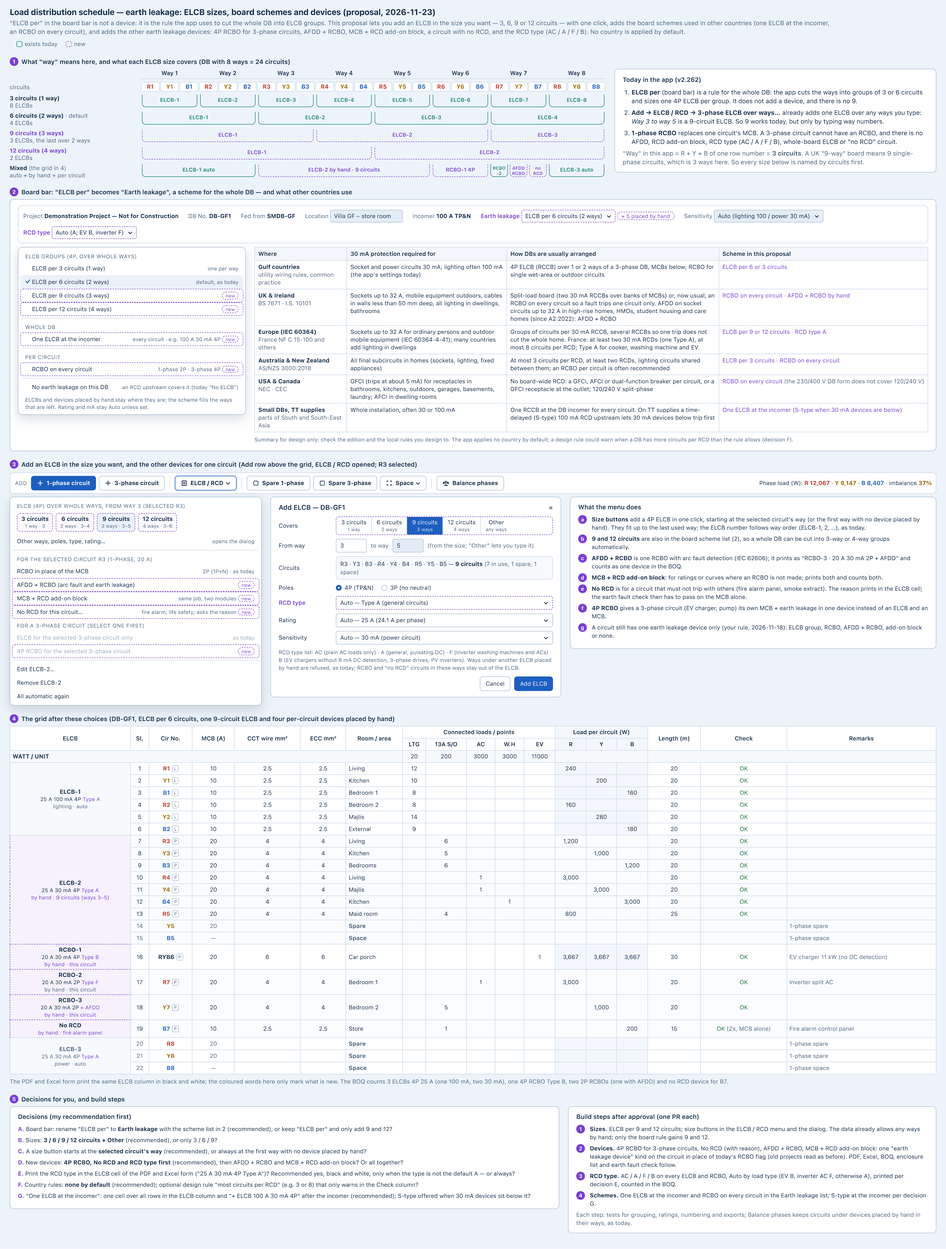
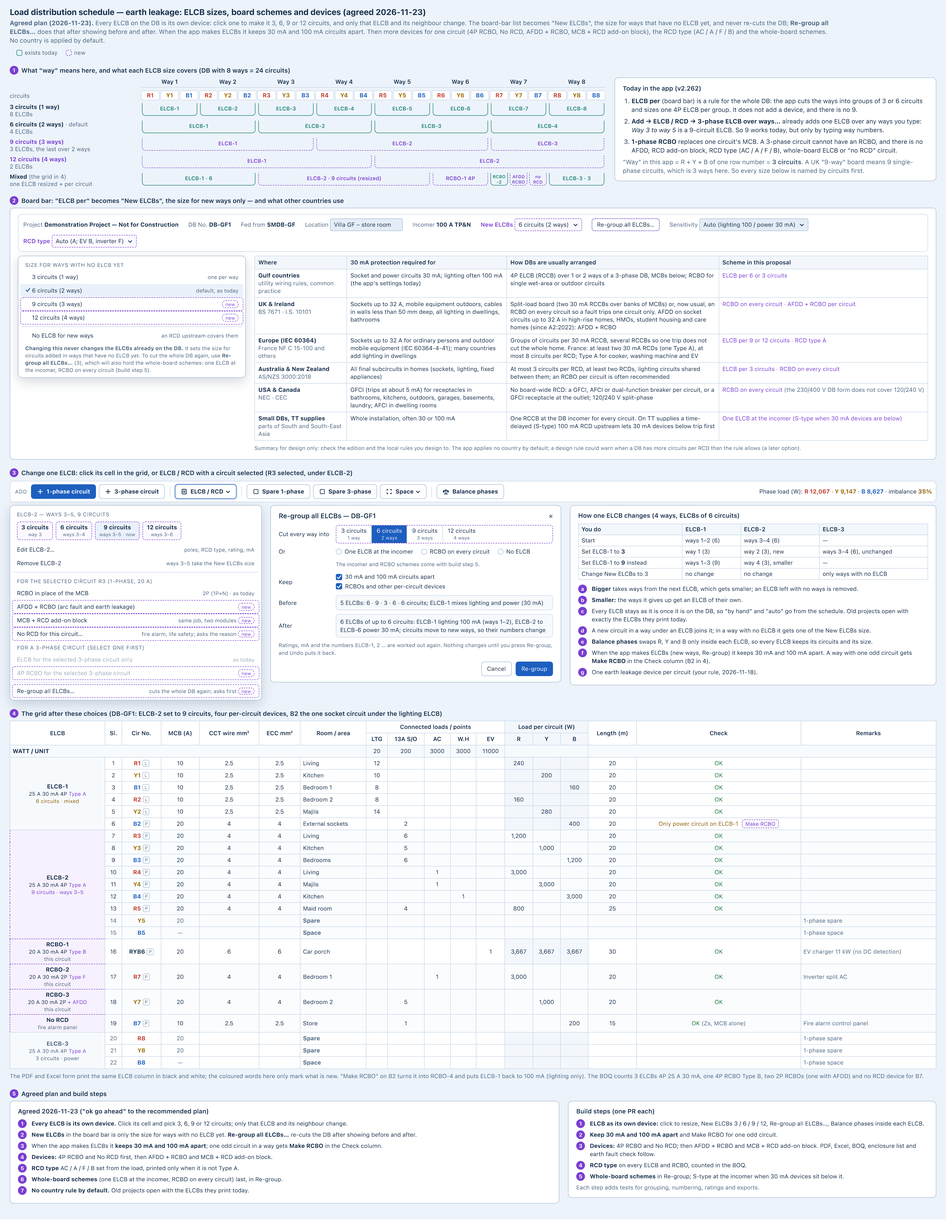
docs: earth leakage proposal — agreed plan (every ELCB its own device)
Rework the mockup and note to the plan agreed on 2026-11-23: click an
ELCB to resize it (3/6/9/12 circuits), the board-bar list becomes New
ELCBs for ways with no ELCB, Re-group all ELCBs re-cuts after a preview,
30 mA and 100 mA kept apart with Make RCBO for an odd circuit.

Changed region(s): [[0.0, 0.0, 1.0, 0.9972], [0.8125, 0.0, 0.875, 0.0312], [0.0625, 0.6233, 0.0938, 0.6544]]

diff --git a/docs/mockups/load-schedule-earth-leakage-mockup.html b/docs/mockups/load-schedule-earth-leakage-mockup.html
@@ -119,6 +119,13 @@ table.ct{border-collapse:collapse;font-size:12px;line-height:16px;background:var
 table.ct th,table.ct td{border:1px solid var(--line);padding:5px 7px;text-align:left;vertical-align:top}
 table.ct th{background:#F3F7FC;font-weight:600}
 table.ct td.sc{color:var(--new);white-space:nowrap}
+table.ex{border-collapse:collapse;font-size:12px;line-height:16px;margin:0 0 10px;width:100%}
+table.ex th,table.ex td{border:1px solid var(--line);padding:3px 6px;text-align:left}
+table.ex th{background:#F3F7FC;font-weight:600}
+.chk{display:inline-flex;align-items:center;gap:6px;margin-right:14px}
+.chk i{display:inline-flex;align-items:center;justify-content:center;width:13px;height:13px;border-radius:3px;background:var(--acc);color:#fff}
+.chk i svg{width:9px;height:9px;stroke-width:2.4}
+.mini{display:inline-flex;border:1.5px dashed var(--new);border-radius:5px;padding:0 6px;font-size:11px;line-height:16px;color:var(--new);background:#FBF9FE;margin-left:4px}
 
 .notes{font-size:12px;line-height:17px}
 .notes ol{margin:0;padding-left:0;list-style:none}
@@ -129,8 +136,8 @@ table.ct td.sc{color:var(--new);white-space:nowrap}
 </style>
 </head>
 <body>
-<h1>Load distribution schedule — earth leakage: ELCB sizes, board schemes and devices (proposal, 2026-11-23)</h1>
-<p class="lead">"ELCB per" in the board bar is not a device: it is the rule the app uses to cut the whole DB into ELCB groups. This proposal lets you add an ELCB in the size you want — 3, 6, 9 or 12 circuits — with one click, adds the board schemes used in other countries (one ELCB at the incomer, an RCBO on every circuit), and adds the other earth leakage devices: 4P RCBO for 3-phase circuits, AFDD + RCBO, MCB + RCD add-on block, a circuit with no RCD, and the RCD type (AC / A / F / B). No country is applied by default.</p>
+<h1>Load distribution schedule — earth leakage: ELCB sizes, board schemes and devices (agreed 2026-11-23)</h1>
+<p class="lead"><b>Agreed plan (2026-11-23).</b> Every ELCB on the DB is its own device: click one to make it 3, 6, 9 or 12 circuits, and only that ELCB and its neighbour change. The board-bar list becomes "New ELCBs", the size for ways that have no ELCB yet, and never re-cuts the DB; <b>Re-group all ELCBs…</b> does that after showing before and after. When the app makes ELCBs it keeps 30 mA and 100 mA circuits apart. Then more devices for one circuit (4P RCBO, No RCD, AFDD + RCBO, MCB + RCD add-on block), the RCD type (AC / A / F / B) and the whole-board schemes. No country is applied by default.</p>
 <p class="legend"><i class="td"></i>exists today <i class="nw"></i>new</p>
 
 <h2><span class="n">1</span>What "way" means here, and what each ELCB size covers (DB with 8 ways = 24 circuits)</h2>
@@ -153,8 +160,8 @@ table.ct td.sc{color:var(--new);white-space:nowrap}
     <div class="rl"><b class="nwt">12 circuits (4 ways)</b><br><span class="m">2 ELCBs</span></div>
     <div class="br nw" style="grid-column:2 / span 12">ELCB-1</div><div class="br nw" style="grid-column:14 / span 12">ELCB-2</div>
 
-    <div class="rl"><b>Mixed</b> <span class="m">(the grid in 4)</span><br><span class="m">auto + by hand + per circuit</span></div>
-    <div class="br" style="grid-column:2 / span 6">ELCB-1 auto</div><div class="br nw" style="grid-column:8 / span 9">ELCB-2 by hand · 9 circuits</div><div class="br nw" style="grid-column:17 / span 3">RCBO-1 4P</div><div class="br rc" style="grid-column:20 / span 1">RCBO<br>-2</div><div class="br rc nw" style="grid-column:21 / span 1">AFDD<br>RCBO</div><div class="br rc nw" style="grid-column:22 / span 1">no<br>RCD</div><div class="br" style="grid-column:23 / span 3">ELCB-3 auto</div>
+    <div class="rl"><b>Mixed</b> <span class="m">(the grid in 4)</span><br><span class="m">one ELCB resized + per circuit</span></div>
+    <div class="br" style="grid-column:2 / span 6">ELCB-1 · 6</div><div class="br nw" style="grid-column:8 / span 9">ELCB-2 · 9 circuits (resized)</div><div class="br nw" style="grid-column:17 / span 3">RCBO-1 4P</div><div class="br rc" style="grid-column:20 / span 1">RCBO<br>-2</div><div class="br rc nw" style="grid-column:21 / span 1">AFDD<br>RCBO</div><div class="br rc nw" style="grid-column:22 / span 1">no<br>RCD</div><div class="br" style="grid-column:23 / span 3">ELCB-3 · 3</div>
   </div>
   <div class="card" style="flex:1">
     <div class="t">Today in the app (v2.262)</div>
@@ -167,7 +174,7 @@ table.ct td.sc{color:var(--new);white-space:nowrap}
   </div>
 </div>
 
-<h2><span class="n">2</span>Board bar: "ELCB per" becomes "Earth leakage", a scheme for the whole DB — and what other countries use</h2>
+<h2><span class="n">2</span>Board bar: "ELCB per" becomes "New ELCBs", the size for new ways only — and what other countries use</h2>
 <div class="frame">
   <div class="lshead">
     <span><span class="m">Project</span> <b>Demonstration Project — Not for Construction</b></span>
@@ -175,45 +182,40 @@ table.ct td.sc{color:var(--new);white-space:nowrap}
     <span><span class="m">Fed from</span> <b>SMDB-GF</b></span>
     <span><span class="m">Location</span> <span class="in" style="width:150px">Villa GF – store room</span></span>
     <span><span class="m">Incomer</span> <b>100 A TP&amp;N</b></span>
-    <span><span class="lbl-nw">Earth leakage</span> <span class="in nw">ELCB per 6 circuits (2 ways) <svg viewBox="0 0 12 12"><path d="M2.5 4.5 6 8l3.5-3.5"/></svg></span> <span class="tag">+ 5 placed by hand</span></span>
+    <span><span class="lbl-nw">New ELCBs</span> <span class="in nw">6 circuits (2 ways) <svg viewBox="0 0 12 12"><path d="M2.5 4.5 6 8l3.5-3.5"/></svg></span></span>
+    <span class="chip nwd" style="padding:3px 10px">Re-group all ELCBs…</span>
     <span><span class="m">Sensitivity</span> <span class="in">Auto (lighting 100 / power 30 mA) <svg viewBox="0 0 12 12"><path d="M2.5 4.5 6 8l3.5-3.5"/></svg></span></span>
     <span><span class="lbl-nw">RCD type</span> <span class="in nw">Auto (A; EV B, inverter F) <svg viewBox="0 0 12 12"><path d="M2.5 4.5 6 8l3.5-3.5"/></svg></span></span>
   </div>
   <div class="row" style="margin-top:8px">
     <div class="menu" style="width:470px;flex:none" id="scheme">
-      <span class="hd">ELCB groups (4P, over whole ways)</span>
-      <div class="it"><span><span class="ck"></span>ELCB per 3 circuits (1 way)</span><span class="m">one per way</span></div>
-      <div class="it hi"><span><span class="ck"><svg viewBox="0 0 12 12" style="width:11px;height:11px;stroke-width:2"><path d="M2 6.5 5 9.5 10 3"/></svg></span>ELCB per 6 circuits (2 ways)</span><span class="m">default, as today</span></div>
-      <div class="it nwd"><span><span class="ck"></span>ELCB per 9 circuits (3 ways)</span><span class="newpill">new</span></div>
-      <div class="it nwd"><span><span class="ck"></span>ELCB per 12 circuits (4 ways)</span><span class="newpill">new</span></div>
+      <span class="hd">Size for ways with no ELCB yet</span>
+      <div class="it"><span><span class="ck"></span>3 circuits (1 way)</span><span class="m">one per way</span></div>
+      <div class="it hi"><span><span class="ck"><svg viewBox="0 0 12 12" style="width:11px;height:11px;stroke-width:2"><path d="M2 6.5 5 9.5 10 3"/></svg></span>6 circuits (2 ways)</span><span class="m">default, as today</span></div>
+      <div class="it nwd"><span><span class="ck"></span>9 circuits (3 ways)</span><span class="newpill">new</span></div>
+      <div class="it nwd"><span><span class="ck"></span>12 circuits (4 ways)</span><span class="newpill">new</span></div>
       <hr>
-      <span class="hd">Whole DB</span>
-      <div class="it nwd"><span><span class="ck"></span>One ELCB at the incomer</span><span class="m">every circuit · e.g. 100 A 30 mA 4P <span class="newpill">new</span></span></div>
-      <hr>
-      <span class="hd">Per circuit</span>
-      <div class="it nwd"><span><span class="ck"></span>RCBO on every circuit</span><span class="m">1-phase 2P · 3-phase 4P <span class="newpill">new</span></span></div>
-      <hr>
-      <div class="it"><span><span class="ck"></span>No earth leakage on this DB</span><span class="m">an RCD upstream covers it (today "No ELCB")</span></div>
-      <div class="foot">ELCBs and devices placed by hand stay where they are; the scheme fills the ways that are left. Rating and mA stay Auto unless set.</div>
+      <div class="it"><span><span class="ck"></span>No ELCB for new ways</span><span class="m">an RCD upstream covers them</span></div>
+      <div class="foot"><b>Changing this never changes the ELCBs already on the DB.</b> It sets the size for circuits added in ways that have no ELCB yet. To cut the whole DB again, use <b>Re-group all ELCBs…</b> (3), which will also hold the whole-board schemes: one ELCB at the incomer, RCBO on every circuit (build step 5).</div>
     </div>
     <div style="flex:1">
       <table class="ct">
         <thead><tr><th style="width:190px">Where</th><th style="width:330px">30 mA protection required for</th><th>How DBs are usually arranged</th><th style="width:220px">Scheme in this proposal</th></tr></thead>
         <tbody>
           <tr><td><b>Gulf countries</b><br><span class="m">utility wiring rules, common practice</span></td><td>Socket and power circuits 30 mA; lighting often 100 mA (the app's settings today)</td><td>4P ELCB (RCCB) over 1 or 2 ways of a 3-phase DB, MCBs below; RCBO for single wet-area or outdoor circuits</td><td class="sc">ELCB per 6 or 3 circuits</td></tr>
-          <tr><td><b>UK &amp; Ireland</b><br><span class="m">BS 7671 · I.S. 10101</span></td><td>Sockets up to 32 A, mobile equipment outdoors, cables in walls less than 50 mm deep, all lighting in dwellings, bathrooms</td><td>Split-load board (two 30 mA RCCBs over banks of MCBs) or, now usual, an RCBO on every circuit so a fault trips one circuit only. AFDD on socket circuits up to 32 A in high-rise homes, HMOs, student housing and care homes (since A2:2022): AFDD + RCBO</td><td class="sc">RCBO on every circuit · AFDD + RCBO by hand</td></tr>
+          <tr><td><b>UK &amp; Ireland</b><br><span class="m">BS 7671 · I.S. 10101</span></td><td>Sockets up to 32 A, mobile equipment outdoors, cables in walls less than 50 mm deep, all lighting in dwellings, bathrooms</td><td>Split-load board (two 30 mA RCCBs over banks of MCBs) or, now usual, an RCBO on every circuit so a fault trips one circuit only. AFDD on socket circuits up to 32 A in high-rise homes, HMOs, student housing and care homes (since A2:2022): AFDD + RCBO</td><td class="sc">RCBO on every circuit · AFDD + RCBO per circuit</td></tr>
           <tr><td><b>Europe (IEC 60364)</b><br><span class="m">France NF C 15-100 and others</span></td><td>Sockets up to 32 A for ordinary persons and outdoor mobile equipment (IEC 60364-4-41); many countries add lighting in dwellings</td><td>Groups of circuits per 30 mA RCCB, several RCCBs so one trip does not cut the whole home. France: at least two 30 mA RCDs (one Type A), at most 8 circuits per RCD; Type A for cooker, washing machine and EV</td><td class="sc">ELCB per 9 or 12 circuits · RCD type A</td></tr>
           <tr><td><b>Australia &amp; New Zealand</b><br><span class="m">AS/NZS 3000:2018</span></td><td>All final subcircuits in homes (sockets, lighting, fixed appliances)</td><td>At most 3 circuits per RCD, at least two RCDs, lighting circuits shared between them; an RCBO per circuit is often recommended</td><td class="sc">ELCB per 3 circuits · RCBO on every circuit</td></tr>
           <tr><td><b>USA &amp; Canada</b><br><span class="m">NEC · CEC</span></td><td>GFCI (trips at about 5 mA) for receptacles in bathrooms, kitchens, outdoors, garages, basements, laundry; AFCI in dwelling rooms</td><td>No board-wide RCD: a GFCI, AFCI or dual-function breaker per circuit, or a GFCI receptacle at the outlet; 120/240 V split-phase</td><td class="sc">RCBO on every circuit <span class="m">(the 230/400 V DB form does not cover 120/240 V)</span></td></tr>
           <tr><td><b>Small DBs, TT supplies</b><br><span class="m">parts of South and South-East Asia</span></td><td>Whole installation, often 30 or 100 mA</td><td>One RCCB at the DB incomer for every circuit. On TT supplies a time-delayed (S-type) 100 mA RCD upstream lets 30 mA devices below trip first</td><td class="sc">One ELCB at the incomer (S-type when 30 mA devices are below)</td></tr>
         </tbody>
       </table>
-      <p class="m" style="margin:6px 0 0;font-size:11px">Summary for design only: check the edition and the local rules you design to. The app applies no country by default; a design rule could warn when a DB has more circuits per RCD than the rule allows (decision F).</p>
+      <p class="m" style="margin:6px 0 0;font-size:11px">Summary for design only: check the edition and the local rules you design to. The app applies no country by default; a design rule could warn when a DB has more circuits per RCD than the rule allows (a later option).</p>
     </div>
   </div>
 </div>
 
-<h2><span class="n">3</span>Add an ELCB in the size you want, and the other devices for one circuit (Add row above the grid, ELCB / RCD opened; R3 selected)</h2>
+<h2><span class="n">3</span>Change one ELCB: click its cell in the grid, or ELCB / RCD with a circuit selected (R3 selected, under ELCB-2)</h2>
 <div class="tools">
   <span class="lbl">Add</span>
   <span class="chip pri"><svg viewBox="0 0 16 16"><path d="M8 3v10M3 8h10"/></svg><b>1-phase circuit</b></span>
@@ -227,13 +229,14 @@ table.ct td.sc{color:var(--new);white-space:nowrap}
   <span class="sep"></span>
   <span class="chip"><svg viewBox="0 0 16 16"><path d="M8 2.5v11M4 13.5h8M3 5.5h10M3 5.5 1.5 9h3L3 5.5ZM13 5.5 11.5 9h3L13 5.5Z"/></svg><b>Balance phases</b></span>
   <span class="sp"></span>
-  <span style="font-size:12px">Phase load (W): <b class="ph-r">R 12,067</b> · <b class="ph-y">Y 9,147</b> · <b class="ph-b">B 8,407</b> · imbalance <b style="color:var(--warn)">37%</b></span>
+  <span style="font-size:12px">Phase load (W): <b class="ph-r">R 12,067</b> · <b class="ph-y">Y 9,147</b> · <b class="ph-b">B 8,627</b> · imbalance <b style="color:var(--warn)">35%</b></span>
 </div>
 <div class="row" style="margin-top:6px">
   <div class="menu" style="width:520px;flex:none">
-    <span class="hd">ELCB (4P) over whole ways, from way 3 (selected R3)</span>
-    <div class="sizes"><span><b>3 circuits</b><i>1 way · 3</i></span><span><b>6 circuits</b><i>2 ways · 3–4</i></span><span style="background:#EAF1FB"><b>9 circuits</b><i>3 ways · 3–5</i></span><span><b>12 circuits</b><i>4 ways · 3–6</i></span></div>
-    <div class="it"><span>Other ways, poles, type, rating…</span><span class="m">opens the dialog</span></div>
+    <span class="hd">ELCB-2 — ways 3–5, 9 circuits</span>
+    <div class="sizes"><span><b>3 circuits</b><i>way 3</i></span><span><b>6 circuits</b><i>ways 3–4</i></span><span style="background:#EAF1FB"><b>9 circuits</b><i>ways 3–5 · now</i></span><span><b>12 circuits</b><i>ways 3–6</i></span></div>
+    <div class="it"><span>Edit ELCB-2…</span><span class="m">poles, RCD type, rating, mA</span></div>
+    <div class="it"><span>Remove ELCB-2</span><span class="m">ways 3–5 take the New ELCBs size</span></div>
     <hr>
     <span class="hd">For the selected circuit R3 (1-phase, 20 A)</span>
     <div class="it"><span>RCBO in place of the MCB</span><span class="m">2P (1P+N) · as today</span></div>
@@ -244,39 +247,45 @@ table.ct td.sc{color:var(--new);white-space:nowrap}
     <div class="it off"><span>ELCB for the selected 3-phase circuit only</span><span class="m">as today</span></div>
     <div class="it off nwd"><span>4P RCBO for the selected 3-phase circuit</span><span class="newpill">new</span></div>
     <hr>
-    <div class="it"><span>Edit ELCB-2…</span><span></span></div>
-    <div class="it"><span>Remove ELCB-2</span><span></span></div>
-    <div class="it"><span>All automatic again</span><span></span></div>
+    <div class="it nwd"><span>Re-group all ELCBs…</span><span class="m">cuts the whole DB again; asks first <span class="newpill">new</span></span></div>
   </div>
 
   <div class="card dlg">
-    <div class="t"><span>Add ELCB — DB-GF1</span><span class="m">×</span></div>
-    <div class="fr"><span>Covers</span><span class="seg nw"><span>3 circuits<i>1 way</i></span><span>6 circuits<i>2 ways</i></span><span class="on">9 circuits<i>3 ways</i></span><span>12 circuits<i>4 ways</i></span><span>Other<i>any ways</i></span></span></div>
-    <div class="fr"><span>From way</span><span class="two"><span class="in">3</span><span class="m">to way</span><span class="in" style="background:var(--p2)">5</span><span class="m">(from the size; "Other" lets you type it)</span></span></div>
-    <div class="fr"><span>Circuits</span><span class="cov">R3 · Y3 · B3 · R4 · Y4 · B4 · R5 · Y5 · B5 — <b>9 circuits</b> <span class="m">(7 in use, 1 spare, 1 space)</span></span></div>
-    <div class="fr"><span>Poles</span><span class="radio"><span><i class="on"></i>4P (TP&amp;N)</span><span><i></i>3P (no neutral)</span></span></div>
-    <div class="fr"><span class="lbl-nw">RCD type</span><span class="in nw">Auto — Type A (general circuits) <svg viewBox="0 0 12 12"><path d="M2.5 4.5 6 8l3.5-3.5"/></svg></span></div>
-    <div class="fr"><span>Rating</span><span class="in">Auto — 25 A (24.1 A per phase) <svg viewBox="0 0 12 12"><path d="M2.5 4.5 6 8l3.5-3.5"/></svg></span></div>
-    <div class="fr"><span>Sensitivity</span><span class="in">Auto — 30 mA (power circuit) <svg viewBox="0 0 12 12"><path d="M2.5 4.5 6 8l3.5-3.5"/></svg></span></div>
-    <p class="note">RCD type list: AC (plain AC loads only) · A (general, pulsating DC) · F (inverter washing machines and ACs) · B (EV chargers without 6 mA DC detection, 3-phase drives, PV inverters). Ways under another ELCB placed by hand are refused, as today; RCBO and "no RCD" circuits in these ways stay out of the ELCB.</p>
-    <div class="btns"><span class="chip">Cancel</span><span class="chip pri">Add ELCB</span></div>
+    <div class="t"><span>Re-group all ELCBs — DB-GF1</span><span class="m">×</span></div>
+    <div class="fr"><span>Cut every way into</span><span class="seg nw"><span>3 circuits<i>1 way</i></span><span class="on">6 circuits<i>2 ways</i></span><span>9 circuits<i>3 ways</i></span><span>12 circuits<i>4 ways</i></span></span></div>
+    <div class="fr"><span>Or</span><span class="radio"><span><i></i>One ELCB at the incomer</span><span><i></i>RCBO on every circuit</span><span><i></i>No ELCB</span></span></div>
+    <div class="fr"><span></span><span class="m" style="font-size:11px">The incomer and RCBO schemes come with build step 5.</span></div>
+    <div class="fr"><span>Keep</span><span><span class="chk"><i><svg viewBox="0 0 12 12" style="width:11px;height:11px;stroke-width:2"><path d="M2 6.5 5 9.5 10 3"/></svg></i>30 mA and 100 mA circuits apart</span><span class="chk"><i><svg viewBox="0 0 12 12" style="width:11px;height:11px;stroke-width:2"><path d="M2 6.5 5 9.5 10 3"/></svg></i>RCBOs and other per-circuit devices</span></span></div>
+    <div class="fr"><span>Before</span><span class="cov">5 ELCBs: 6 · 9 · 3 · 6 · 6 circuits; ELCB-1 mixes lighting and power (30 mA)</span></div>
+    <div class="fr"><span>After</span><span class="cov">6 ELCBs of up to 6 circuits: ELCB-1 lighting 100 mA (ways 1–2), ELCB-2 to ELCB-6 power 30 mA; circuits move to new ways, so their numbers change</span></div>
+    <p class="note">Ratings, mA and the numbers ELCB-1, 2 … are worked out again. Nothing changes until you press Re-group, and Undo puts it back.</p>
+    <div class="btns"><span class="chip">Cancel</span><span class="chip pri">Re-group</span></div>
   </div>
 
   <div class="card notes" style="flex:1">
-    <div class="t">What the menu does</div>
+    <div class="t">How one ELCB changes (4 ways, ELCBs of 6 circuits)</div>
+    <table class="ex">
+      <thead><tr><th>You do</th><th>ELCB-1</th><th>ELCB-2</th><th>ELCB-3</th></tr></thead>
+      <tbody>
+        <tr><td>Start</td><td>ways 1–2 (6)</td><td>ways 3–4 (6)</td><td>—</td></tr>
+        <tr><td>Set ELCB-1 to <b>3</b></td><td>way 1 (3)</td><td>way 2 (3), new</td><td>ways 3–4 (6), unchanged</td></tr>
+        <tr><td>Set ELCB-1 to <b>9</b> instead</td><td>ways 1–3 (9)</td><td>way 4 (3), smaller</td><td>—</td></tr>
+        <tr><td>Change New ELCBs to 3</td><td>no change</td><td>no change</td><td>only ways with no ELCB</td></tr>
+      </tbody>
+    </table>
     <ol>
-      <li><span class="n">a</span><b>Size buttons</b> add a 4P ELCB in one click, starting at the selected circuit's way (or the first way with no device placed by hand). They fit up to the last used way; the ELCB number follows way order (ELCB-1, 2, …), as today.</li>
-      <li><span class="n">b</span><b>9 and 12 circuits</b> are also in the board scheme list (2), so a whole DB can be cut into 3-way or 4-way groups automatically.</li>
-      <li><span class="n">c</span><b>AFDD + RCBO</b> is one RCBO with arc fault detection (IEC 62606); it prints as "RCBO-3 · 20 A 30 mA 2P + AFDD" and counts as one device in the BOQ.</li>
-      <li><span class="n">d</span><b>MCB + RCD add-on block</b>: for ratings or curves where an RCBO is not made; prints both and counts both.</li>
-      <li><span class="n">e</span><b>No RCD</b> is for a circuit that must not trip with others (fire alarm panel, smoke extract). The reason prints in the ELCB cell; the earth fault check then has to pass on the MCB alone.</li>
-      <li><span class="n">f</span><b>4P RCBO</b> gives a 3-phase circuit (EV charger, pump) its own MCB + earth leakage in one device instead of an ELCB and an MCB.</li>
-      <li><span class="n">g</span>A circuit still has one earth leakage device only (your rule, 2026-11-18): ELCB group, RCBO, AFDD + RCBO, add-on block or none.</li>
+      <li><span class="n">a</span><b>Bigger</b> takes ways from the next ELCB, which gets smaller; an ELCB left with no ways is removed.</li>
+      <li><span class="n">b</span><b>Smaller:</b> the ways it gives up get an ELCB of their own.</li>
+      <li><span class="n">c</span>Every ELCB stays as it is once it is on the DB, so "by hand" and "auto" go from the schedule. Old projects open with exactly the ELCBs they print today.</li>
+      <li><span class="n">d</span>A new circuit in a way under an ELCB joins it; in a way with no ELCB it gets one of the New ELCBs size.</li>
+      <li><span class="n">e</span><b>Balance phases</b> swaps R, Y and B only inside each ELCB, so every ELCB keeps its circuits and its size.</li>
+      <li><span class="n">f</span>When the app makes ELCBs (new ways, Re-group) it keeps 30 mA and 100 mA apart. A way with one odd circuit gets <b>Make RCBO</b> in the Check column (B2 in 4).</li>
+      <li><span class="n">g</span>One earth leakage device per circuit (your rule, 2026-11-18).</li>
     </ol>
   </div>
 </div>
 
-<h2><span class="n">4</span>The grid after these choices (DB-GF1, ELCB per 6 circuits, one 9-circuit ELCB and four per-circuit devices placed by hand)</h2>
+<h2><span class="n">4</span>The grid after these choices (DB-GF1: ELCB-2 set to 9 circuits, four per-circuit devices, B2 the one socket circuit under the lighting ELCB)</h2>
 <table class="ls">
   <thead>
     <tr><th rowspan="2">ELCB</th><th rowspan="2">Sl.</th><th rowspan="2">Cir No.</th><th rowspan="2">MCB (A)</th><th rowspan="2">CCT wire mm²</th><th rowspan="2">ECC mm²</th><th rowspan="2">Room / area</th>
@@ -285,14 +294,14 @@ table.ct td.sc{color:var(--new);white-space:nowrap}
     <tr class="watt"><td colspan="7" style="text-align:left"><b>WATT / UNIT</b></td><td>20</td><td>200</td><td>3000</td><td>3000</td><td>11000</td><td colspan="3" class="shade"></td><td colspan="3"></td></tr>
   </thead>
   <tbody>
-    <tr><td class="elcb" rowspan="6"><b>ELCB-1</b><br>25 A 100 mA 4P <span class="nwt">Type A</span><br><span class="m">lighting · auto</span></td><td>1</td><td><b class="ph-r">R1</b><span class="cat">L</span></td><td>10</td><td>2.5</td><td>2.5</td><td class="room">Living</td><td>12</td><td></td><td></td><td></td><td></td><td class="shade">240</td><td class="shade"></td><td class="shade"></td><td>20</td><td class="ok">OK</td><td class="rk"></td></tr>
+    <tr><td class="elcb" rowspan="6"><b>ELCB-1</b><br>25 A 30 mA 4P <span class="nwt">Type A</span><br><span style="color:var(--warn)">6 circuits · mixed</span></td><td>1</td><td><b class="ph-r">R1</b><span class="cat">L</span></td><td>10</td><td>2.5</td><td>2.5</td><td class="room">Living</td><td>12</td><td></td><td></td><td></td><td></td><td class="shade">240</td><td class="shade"></td><td class="shade"></td><td>20</td><td class="ok">OK</td><td class="rk"></td></tr>
     <tr><td>2</td><td><b class="ph-y">Y1</b><span class="cat">L</span></td><td>10</td><td>2.5</td><td>2.5</td><td class="room">Kitchen</td><td>10</td><td></td><td></td><td></td><td></td><td class="shade"></td><td class="shade">200</td><td class="shade"></td><td>20</td><td class="ok">OK</td><td class="rk"></td></tr>
     <tr><td>3</td><td><b class="ph-b">B1</b><span class="cat">L</span></td><td>10</td><td>2.5</td><td>2.5</td><td class="room">Bedroom 1</td><td>8</td><td></td><td></td><td></td><td></td><td class="shade"></td><td class="shade"></td><td class="shade">160</td><td>20</td><td class="ok">OK</td><td class="rk"></td></tr>
     <tr><td>4</td><td><b class="ph-r">R2</b><span class="cat">L</span></td><td>10</td><td>2.5</td><td>2.5</td><td class="room">Bedroom 2</td><td>8</td><td></td><td></td><td></td><td></td><td class="shade">160</td><td class="shade"></td><td class="shade"></td><td>20</td><td class="ok">OK</td><td class="rk"></td></tr>
     <tr><td>5</td><td><b class="ph-y">Y2</b><span class="cat">L</span></td><td>10</td><td>2.5</td><td>2.5</td><td class="room">Majlis</td><td>14</td><td></td><td></td><td></td><td></td><td class="shade"></td><td class="shade">280</td><td class="shade"></td><td>20</td><td class="ok">OK</td><td class="rk"></td></tr>
-    <tr><td>6</td><td><b class="ph-b">B2</b><span class="cat">L</span></td><td>10</td><td>2.5</td><td>2.5</td><td class="room">External</td><td>9</td><td></td><td></td><td></td><td></td><td class="shade"></td><td class="shade"></td><td class="shade">180</td><td>20</td><td class="ok">OK</td><td class="rk"></td></tr>
+    <tr><td>6</td><td><b class="ph-b">B2</b><span class="cat">P</span></td><td>20</td><td>4</td><td>4</td><td class="room">External sockets</td><td></td><td>2</td><td></td><td></td><td></td><td class="shade"></td><td class="shade"></td><td class="shade">400</td><td>20</td><td class="wn">Only power circuit on ELCB-1 <span class="mini">Make RCBO</span></td><td class="rk"></td></tr>
 
-    <tr class="alt"><td class="elcb hand" rowspan="9"><b>ELCB-2</b><br>25 A 30 mA 4P <span class="nwt">Type A</span><br><span class="nwt">by hand · 9 circuits (ways 3–5)</span></td><td>7</td><td><b class="ph-r">R3</b><span class="cat">P</span></td><td>20</td><td>4</td><td>4</td><td class="room">Living</td><td></td><td>6</td><td></td><td></td><td></td><td class="shade">1,200</td><td class="shade"></td><td class="shade"></td><td>20</td><td class="ok">OK</td><td class="rk"></td></tr>
+    <tr class="alt"><td class="elcb hand" rowspan="9"><b>ELCB-2</b><br>25 A 30 mA 4P <span class="nwt">Type A</span><br><span class="nwt">9 circuits · ways 3–5</span></td><td>7</td><td><b class="ph-r">R3</b><span class="cat">P</span></td><td>20</td><td>4</td><td>4</td><td class="room">Living</td><td></td><td>6</td><td></td><td></td><td></td><td class="shade">1,200</td><td class="shade"></td><td class="shade"></td><td>20</td><td class="ok">OK</td><td class="rk"></td></tr>
     <tr class="alt"><td>8</td><td><b class="ph-y">Y3</b><span class="cat">P</span></td><td>20</td><td>4</td><td>4</td><td class="room">Kitchen</td><td></td><td>5</td><td></td><td></td><td></td><td class="shade"></td><td class="shade">1,000</td><td class="shade"></td><td>20</td><td class="ok">OK</td><td class="rk"></td></tr>
     <tr class="alt"><td>9</td><td><b class="ph-b">B3</b><span class="cat">P</span></td><td>20</td><td>4</td><td>4</td><td class="room">Bedrooms</td><td></td><td>6</td><td></td><td></td><td></td><td class="shade"></td><td class="shade"></td><td class="shade">1,200</td><td>20</td><td class="ok">OK</td><td class="rk"></td></tr>
     <tr class="alt"><td>10</td><td><b class="ph-r">R4</b><span class="cat">P</span></td><td>20</td><td>4</td><td>4</td><td class="room">Living</td><td></td><td></td><td>1</td><td></td><td></td><td class="shade">3,000</td><td class="shade"></td><td class="shade"></td><td>20</td><td class="ok">OK</td><td class="rk"></td></tr>
@@ -302,42 +311,43 @@ table.ct td.sc{color:var(--new);white-space:nowrap}
     <tr class="alt spare"><td>14</td><td><b class="ph-y">Y5</b></td><td>20</td><td></td><td></td><td class="room"><b>Spare</b></td><td></td><td></td><td></td><td></td><td></td><td class="shade"></td><td class="shade"></td><td class="shade"></td><td></td><td></td><td class="rk">1-phase spare</td></tr>
     <tr class="alt spare"><td>15</td><td><b class="ph-b">B5</b></td><td><span class="m">—</span></td><td></td><td></td><td class="room"><b>Space</b></td><td></td><td></td><td></td><td></td><td></td><td class="shade"></td><td class="shade"></td><td class="shade"></td><td></td><td></td><td class="rk">1-phase space</td></tr>
 
-    <tr><td class="elcb hand"><b>RCBO-1</b><br>20 A 30 mA 4P <span class="nwt">Type B</span><br><span class="nwt">by hand · this circuit</span></td><td>16</td><td><b class="ph-ryb">RYB6</b><span class="cat">P</span></td><td>20</td><td>6</td><td>6</td><td class="room">Car porch</td><td></td><td></td><td></td><td></td><td>1</td><td class="shade">3,667</td><td class="shade">3,667</td><td class="shade">3,667</td><td>30</td><td class="ok">OK</td><td class="rk">EV charger 11 kW (no DC detection)</td></tr>
+    <tr><td class="elcb hand"><b>RCBO-1</b><br>20 A 30 mA 4P <span class="nwt">Type B</span><br><span class="m">this circuit</span></td><td>16</td><td><b class="ph-ryb">RYB6</b><span class="cat">P</span></td><td>20</td><td>6</td><td>6</td><td class="room">Car porch</td><td></td><td></td><td></td><td></td><td>1</td><td class="shade">3,667</td><td class="shade">3,667</td><td class="shade">3,667</td><td>30</td><td class="ok">OK</td><td class="rk">EV charger 11 kW (no DC detection)</td></tr>
 
-    <tr class="alt"><td class="elcb hand"><b>RCBO-2</b><br>20 A 30 mA 2P <span class="nwt">Type F</span><br><span class="m">by hand · this circuit</span></td><td>17</td><td><b class="ph-r">R7</b><span class="cat">P</span></td><td>20</td><td>4</td><td>4</td><td class="room">Bedroom 1</td><td></td><td></td><td>1</td><td></td><td></td><td class="shade">3,000</td><td class="shade"></td><td class="shade"></td><td>20</td><td class="ok">OK</td><td class="rk">Inverter split AC</td></tr>
-    <tr class="alt"><td class="elcb hand"><b>RCBO-3</b><br>20 A 30 mA 2P <span class="nwt">+ AFDD</span><br><span class="nwt">by hand · this circuit</span></td><td>18</td><td><b class="ph-y">Y7</b><span class="cat">P</span></td><td>20</td><td>4</td><td>4</td><td class="room">Bedroom 2</td><td></td><td>5</td><td></td><td></td><td></td><td class="shade"></td><td class="shade">1,000</td><td class="shade"></td><td>20</td><td class="ok">OK</td><td class="rk"></td></tr>
-    <tr class="alt"><td class="elcb hand"><b>No RCD</b><br><span class="nwt">by hand · fire alarm panel</span></td><td>19</td><td><b class="ph-b">B7</b><span class="cat">P</span></td><td>10</td><td>2.5</td><td>2.5</td><td class="room">Store</td><td></td><td>1</td><td></td><td></td><td></td><td class="shade"></td><td class="shade"></td><td class="shade">200</td><td>15</td><td class="ok">OK <span class="m">(Zs, MCB alone)</span></td><td class="rk">Fire alarm control panel</td></tr>
+    <tr class="alt"><td class="elcb hand"><b>RCBO-2</b><br>20 A 30 mA 2P <span class="nwt">Type F</span><br><span class="m">this circuit</span></td><td>17</td><td><b class="ph-r">R7</b><span class="cat">P</span></td><td>20</td><td>4</td><td>4</td><td class="room">Bedroom 1</td><td></td><td></td><td>1</td><td></td><td></td><td class="shade">3,000</td><td class="shade"></td><td class="shade"></td><td>20</td><td class="ok">OK</td><td class="rk">Inverter split AC</td></tr>
+    <tr class="alt"><td class="elcb hand"><b>RCBO-3</b><br>20 A 30 mA 2P <span class="nwt">+ AFDD</span><br><span class="m">this circuit</span></td><td>18</td><td><b class="ph-y">Y7</b><span class="cat">P</span></td><td>20</td><td>4</td><td>4</td><td class="room">Bedroom 2</td><td></td><td>5</td><td></td><td></td><td></td><td class="shade"></td><td class="shade">1,000</td><td class="shade"></td><td>20</td><td class="ok">OK</td><td class="rk"></td></tr>
+    <tr class="alt"><td class="elcb hand"><b>No RCD</b><br><span class="m">fire alarm panel</span></td><td>19</td><td><b class="ph-b">B7</b><span class="cat">P</span></td><td>10</td><td>2.5</td><td>2.5</td><td class="room">Store</td><td></td><td>1</td><td></td><td></td><td></td><td class="shade"></td><td class="shade"></td><td class="shade">200</td><td>15</td><td class="ok">OK <span class="m">(Zs, MCB alone)</span></td><td class="rk">Fire alarm control panel</td></tr>
 
-    <tr class="spare"><td class="elcb" rowspan="3"><b>ELCB-3</b><br>25 A 30 mA 4P <span class="nwt">Type A</span><br><span class="m">power · auto</span></td><td>20</td><td><b class="ph-r">R8</b></td><td>20</td><td></td><td></td><td class="room"><b>Spare</b></td><td></td><td></td><td></td><td></td><td></td><td class="shade"></td><td class="shade"></td><td class="shade"></td><td></td><td></td><td class="rk">1-phase spare</td></tr>
+    <tr class="spare"><td class="elcb" rowspan="3"><b>ELCB-3</b><br>25 A 30 mA 4P <span class="nwt">Type A</span><br><span class="m">3 circuits · power</span></td><td>20</td><td><b class="ph-r">R8</b></td><td>20</td><td></td><td></td><td class="room"><b>Spare</b></td><td></td><td></td><td></td><td></td><td></td><td class="shade"></td><td class="shade"></td><td class="shade"></td><td></td><td></td><td class="rk">1-phase spare</td></tr>
     <tr class="spare"><td>21</td><td><b class="ph-y">Y8</b></td><td>20</td><td></td><td></td><td class="room"><b>Spare</b></td><td></td><td></td><td></td><td></td><td></td><td class="shade"></td><td class="shade"></td><td class="shade"></td><td></td><td></td><td class="rk">1-phase spare</td></tr>
     <tr class="spare"><td>22</td><td><b class="ph-b">B8</b></td><td><span class="m">—</span></td><td></td><td></td><td class="room"><b>Space</b></td><td></td><td></td><td></td><td></td><td></td><td class="shade"></td><td class="shade"></td><td class="shade"></td><td></td><td></td><td class="rk">1-phase space</td></tr>
   </tbody>
 </table>
-<p class="m" style="margin:6px 0 0;font-size:12px">The PDF and Excel form print the same ELCB column in black and white; the coloured words here only mark what is new. The BOQ counts 3 ELCBs 4P 25 A (one 100 mA, two 30 mA), one 4P RCBO Type B, two 2P RCBOs (one with AFDD) and no RCD device for B7.</p>
+<p class="m" style="margin:6px 0 0;font-size:12px">The PDF and Excel form print the same ELCB column in black and white; the coloured words here only mark what is new. "Make RCBO" on B2 turns it into RCBO-4 and puts ELCB-1 back to 100 mA (lighting only). The BOQ counts 3 ELCBs 4P 25 A 30 mA, one 4P RCBO Type B, two 2P RCBOs (one with AFDD) and no RCD device for B7.</p>
 
-<h2><span class="n">5</span>Decisions for you, and build steps</h2>
+<h2><span class="n">5</span>Agreed plan and build steps</h2>
 <div class="row">
   <div class="card notes" style="flex:1">
-    <div class="t">Decisions (my recommendation first)</div>
-    <ol class="dec">
-      <li><b class="k">A.</b> Board bar: rename "ELCB per" to <b>Earth leakage</b> with the scheme list in 2 (recommended), or keep "ELCB per" and only add 9 and 12?</li>
-      <li><b class="k">B.</b> Sizes: <b>3 / 6 / 9 / 12 circuits + Other</b> (recommended), or only 3 / 6 / 9?</li>
-      <li><b class="k">C.</b> A size button starts at the <b>selected circuit's way</b> (recommended), or always at the first way with no device placed by hand?</li>
-      <li><b class="k">D.</b> New devices: <b>4P RCBO, No RCD and RCD type first</b> (recommended), then AFDD + RCBO and MCB + RCD add-on block? Or all together?</li>
-      <li><b class="k">E.</b> Print the RCD type in the ELCB cell of the PDF and Excel form ("25 A 30 mA 4P Type A")? Recommended yes, black and white, only when the type is not the default A — or always?</li>
-      <li><b class="k">F.</b> Country rules: <b>none by default</b> (recommended); optional design rule "most circuits per RCD" (e.g. 3 or 8) that only warns in the Check column?</li>
-      <li><b class="k">G.</b> "One ELCB at the incomer": one cell over all rows in the ELCB column and "+ ELCB 100 A 30 mA 4P" after the incomer (recommended); S-type offered when 30 mA devices sit below it?</li>
+    <div class="t">Agreed 2026-11-23 ("ok go ahead" to the recommended plan)</div>
+    <ol>
+      <li><span class="n">1</span><b>Every ELCB is its own device.</b> Click its cell and pick 3, 6, 9 or 12 circuits; only that ELCB and its neighbour change.</li>
+      <li><span class="n">2</span><b>New ELCBs</b> in the board bar is only the size for ways with no ELCB yet. <b>Re-group all ELCBs…</b> re-cuts the DB after showing before and after.</li>
+      <li><span class="n">3</span>When the app makes ELCBs it <b>keeps 30 mA and 100 mA apart</b>; one odd circuit in a way gets <b>Make RCBO</b> in the Check column.</li>
+      <li><span class="n">4</span><b>Devices:</b> 4P RCBO and No RCD first, then AFDD + RCBO and MCB + RCD add-on block.</li>
+      <li><span class="n">5</span><b>RCD type</b> AC / A / F / B set from the load, printed only when it is not Type A.</li>
+      <li><span class="n">6</span><b>Whole-board schemes</b> (one ELCB at the incomer, RCBO on every circuit) last, in Re-group.</li>
+      <li><span class="n">7</span><b>No country rule by default.</b> Old projects open with the ELCBs they print today.</li>
     </ol>
   </div>
   <div class="card notes" style="width:760px;flex:none">
-    <div class="t">Build steps after approval (one PR each)</div>
+    <div class="t">Build steps (one PR each)</div>
     <ol>
-      <li><span class="n">1</span><b>Sizes.</b> ELCB per 9 and 12 circuits; size buttons in the ELCB / RCD menu and the dialog. The data already allows any ways by hand; only the board rule gains 9 and 12.</li>
-      <li><span class="n">2</span><b>Devices.</b> 4P RCBO for 3-phase circuits, No RCD (with reason), AFDD + RCBO, MCB + RCD add-on block: one "earth leakage device" kind on the circuit in place of today's RCBO flag (old projects read as before). PDF, Excel, BOQ, enclosure list and earth fault check follow.</li>
-      <li><span class="n">3</span><b>RCD type.</b> AC / A / F / B on every ELCB and RCBO, Auto by load type (EV B, inverter AC F, otherwise A), printed per decision E, counted in the BOQ.</li>
-      <li><span class="n">4</span><b>Schemes.</b> One ELCB at the incomer and RCBO on every circuit in the Earth leakage list; S-type at the incomer per decision G.</li>
+      <li><span class="n">1</span><b>ELCB as its own device:</b> click to resize, New ELCBs 3 / 6 / 9 / 12, Re-group all ELCBs…, Balance phases inside each ELCB.</li>
+      <li><span class="n">2</span><b>Keep 30 mA and 100 mA apart</b> and Make RCBO for one odd circuit.</li>
+      <li><span class="n">3</span><b>Devices:</b> 4P RCBO and No RCD; then AFDD + RCBO and MCB + RCD add-on block. PDF, Excel, BOQ, enclosure list and earth fault check follow.</li>
+      <li><span class="n">4</span><b>RCD type</b> on every ELCB and RCBO, counted in the BOQ.</li>
+      <li><span class="n">5</span><b>Whole-board schemes</b> in Re-group; S-type at the incomer when 30 mA devices sit below it.</li>
     </ol>
-    <p class="m" style="margin:4px 0 0">Each step: tests for grouping, ratings, numbering and exports; Balance phases keeps circuits under devices placed by hand in their ways, as today.</p>
+    <p class="m" style="margin:4px 0 0">Each step adds tests for grouping, numbering, ratings and exports.</p>
   </div>
 </div>
 

diff --git a/docs/notes/Future development/UI UX proposals - 2026-11-23 - Load schedule earth leakage.md b/docs/notes/Future development/UI UX proposals - 2026-11-23 - Load schedule earth leakage.md
@@ -1,6 +1,6 @@
 # UI UX proposal – Load schedule earth leakage: ELCB sizes, board schemes and devices (2026-11-23)
 
-Status: **proposal, waiting for decisions A–G.** Nothing is built.
+Status: **approved on 2026-11-23** ("ok go ahead" to the recommended plan below). Build step 1 next.
 
 Mockup: `docs/mockups/load-schedule-earth-leakage-mockup.html` (image: `load-schedule-earth-leakage-mockup.png`).
 
@@ -30,29 +30,29 @@ The user sent a crop of the board bar's **ELCB per [6 circuits (2 ways)]** list:
 
 Check the edition and local rules of each project; the app applies no country by default and prints no authority name.
 
-## Proposed
+## Follow-up questions on 2026-11-23
 
-1. **Sizes by circuits.** The ELCB / RCD menu gets size buttons — 3 circuits (1 way), 6 (2 ways), 9 (3 ways), 12 (4 ways) — that add a 4P ELCB in one click from the selected circuit's way. "Other ways, poles, type, rating…" opens the dialog, which gets the same size buttons above From way (the To way follows the size; "Other" lets the user type it) and lists the circuits it covers.
-2. **Board bar: "ELCB per" becomes "Earth leakage",** a scheme for the whole DB: ELCB per 3 / 6 / 9 / 12 circuits, One ELCB at the incomer, RCBO on every circuit, No earth leakage on this DB (an RCD upstream covers it). Devices placed by hand stay; the scheme fills the ways that are left, as today.
-3. **More devices for one circuit:** AFDD + RCBO, MCB + RCD add-on block, No RCD (asks the reason: fire alarm panel, smoke extract), and a 4P RCBO for a 3-phase circuit. A circuit keeps one earth leakage device only (the user's rule of 2026-11-18).
-4. **RCD type** (AC / A / F / B) on every ELCB and RCBO, Auto by load type: EV charging B (A when the charger has 6 mA DC detection), inverter AC F, otherwise A. A board-bar default sits beside Sensitivity.
-5. **Grid and prints:** the ELCB column shows the device, rating, mA, poles and type; "No RCD" shows its reason and the earth fault check must pass on the MCB alone. PDF and Excel stay black and white. BOQ, enclosure list and earth fault check (`rcdOf`) count each device kind.
+- **"What is by hand?"** An ELCB or RCBO the user placed from Add → ELCB / RCD, as opposed to one made by the "ELCB per" rule. The agreed plan removes the difference, so "by hand" and "auto" leave the schedule.
+- **3 circuits at 30 mA and 3 at 100 mA under "ELCB per 6".** Today the six share one ELCB: the app picks 30 mA (it protects both) and marks the cell "mixed!". Balance phases separates them, but it renumbers circuits and leaves half-empty ELCBs. The user wants the automatic grouping to avoid the mix.
+- **"Selecting 3 changes every ELCB to 3, and 6 changes every one to 6; that's not good."** True for a DB with no ELCBs placed by hand, which is almost every DB, because the dialog for placing them is hard to find. One click re-cuts the whole board: numbers, ratings, PDF and BOQ all change.
 
-## Decisions for the user
+## Agreed plan (2026-11-23)
 
-- **A.** Rename "ELCB per" to **Earth leakage** with the scheme list (recommended), or keep "ELCB per" and only add 9 and 12?
-- **B.** Sizes 3 / 6 / 9 / 12 circuits + Other (recommended), or only 3 / 6 / 9?
-- **C.** A size button starts at the selected circuit's way (recommended), or at the first way with no device placed by hand?
-- **D.** New devices: 4P RCBO, No RCD and RCD type first (recommended), then AFDD + RCBO and MCB + RCD add-on block; or all together?
-- **E.** Print the RCD type in the PDF and Excel ELCB cell ("25 A 30 mA 4P Type A"): only when it is not the default A (recommended), or always?
-- **F.** No country rule by default (recommended); add an optional design rule "most circuits per RCD" (3 or 8, for example) that only warns in the Check column?
-- **G.** One ELCB at the incomer: one cell over all rows in the ELCB column and "+ ELCB 100 A 30 mA 4P" after the incomer (recommended); offer S-type when 30 mA devices sit below it?
+1. **Every ELCB is its own device.** Click an ELCB cell, or use ELCB / RCD with a circuit selected, and pick 3, 6, 9 or 12 circuits. Only that ELCB and its neighbour change. Bigger takes ways from the next ELCB, which gets smaller (an ELCB left with no ways is removed). Smaller gives its freed ways an ELCB of their own.
+2. **The board-bar list becomes "New ELCBs":** the size (3 / 6 / 9 / 12 circuits, or none) for ways that have no ELCB yet. Changing it never changes the ELCBs already on the DB. **Re-group all ELCBs…** re-cuts the whole DB after showing before and after, and Undo reverses it.
+3. When the app makes ELCBs (new ways, Re-group) it **keeps 30 mA and 100 mA circuits apart.** A way with one odd circuit gets **Make RCBO** in the Check column, so its ELCB can stay at 100 mA for the lights. This is on by default; Re-group has a switch, because some rules (AS/NZS 3000) want lighting circuits spread over RCDs.
+4. **Devices for one circuit:** 4P RCBO and No RCD (with a reason) first, then AFDD + RCBO and MCB + RCD add-on block. One earth leakage device per circuit (the user's rule of 2026-11-18).
+5. **RCD type** AC / A / F / B, set from the load (EV charging B, or A when the charger has 6 mA DC detection; inverter AC F; otherwise A). Printed in black and white only when it is not Type A.
+6. **Whole-board schemes** (one ELCB at the incomer, with S-type when 30 mA devices sit below it; RCBO on every circuit) last, as choices in Re-group.
+7. **No country rule by default.** Old projects open with exactly the ELCBs they print today.
+8. **Balance phases** swaps R, Y and B only inside each ELCB, so every ELCB keeps its circuits and its size.
 
-## Suggested build steps (after approval, one PR each)
+## Build steps (one PR each)
 
-1. **Sizes:** `elcbGroupSize` gains 9 and 12; size buttons in the menu and the dialog. Hand ELCBs already take any ways.
-2. **Devices:** one earth leakage device kind on the circuit (RCBO, AFDD + RCBO, MCB + RCD add-on, none) in place of the `rcbo` flag, with old projects read as RCBO; 4P RCBO for RYB circuits. PDF, Excel, BOQ, enclosure list and earth fault check follow.
-3. **RCD type:** AC / A / F / B on `BoardElcb`, the board and the circuit device; Auto by load type; printed per E; counted in the BOQ.
-4. **Schemes:** One ELCB at the incomer and RCBO on every circuit; S-type per G.
+1. **ELCB as its own device:** click to resize, New ELCBs 3 / 6 / 9 / 12, Re-group all ELCBs…, Balance phases inside each ELCB. Data: the automatic sections are written into `Board.elcbs` before any ELCB is resized or the New ELCBs size changes, so nothing already on the DB moves; `elcbGroupSize` gains 9 and 12 and covers only ways with no ELCB.
+2. **Keep 30 mA and 100 mA apart** when ELCBs are made, and Make RCBO for one odd circuit.
+3. **Devices:** one earth leakage device kind on the circuit in place of the `rcbo` flag (old projects read as RCBO); 4P RCBO for RYB circuits; No RCD; then AFDD + RCBO and MCB + RCD add-on block. PDF, Excel, BOQ, enclosure list and earth fault check (`rcdOf`) follow.
+4. **RCD type** on `BoardElcb`, the board and the circuit device; counted in the BOQ.
+5. **Whole-board schemes** in Re-group.
 
-Each step adds tests for grouping, numbering, ratings and exports; Balance phases keeps circuits under devices placed by hand in their ways, as today.
+Each step adds tests for grouping, numbering, ratings and exports.
